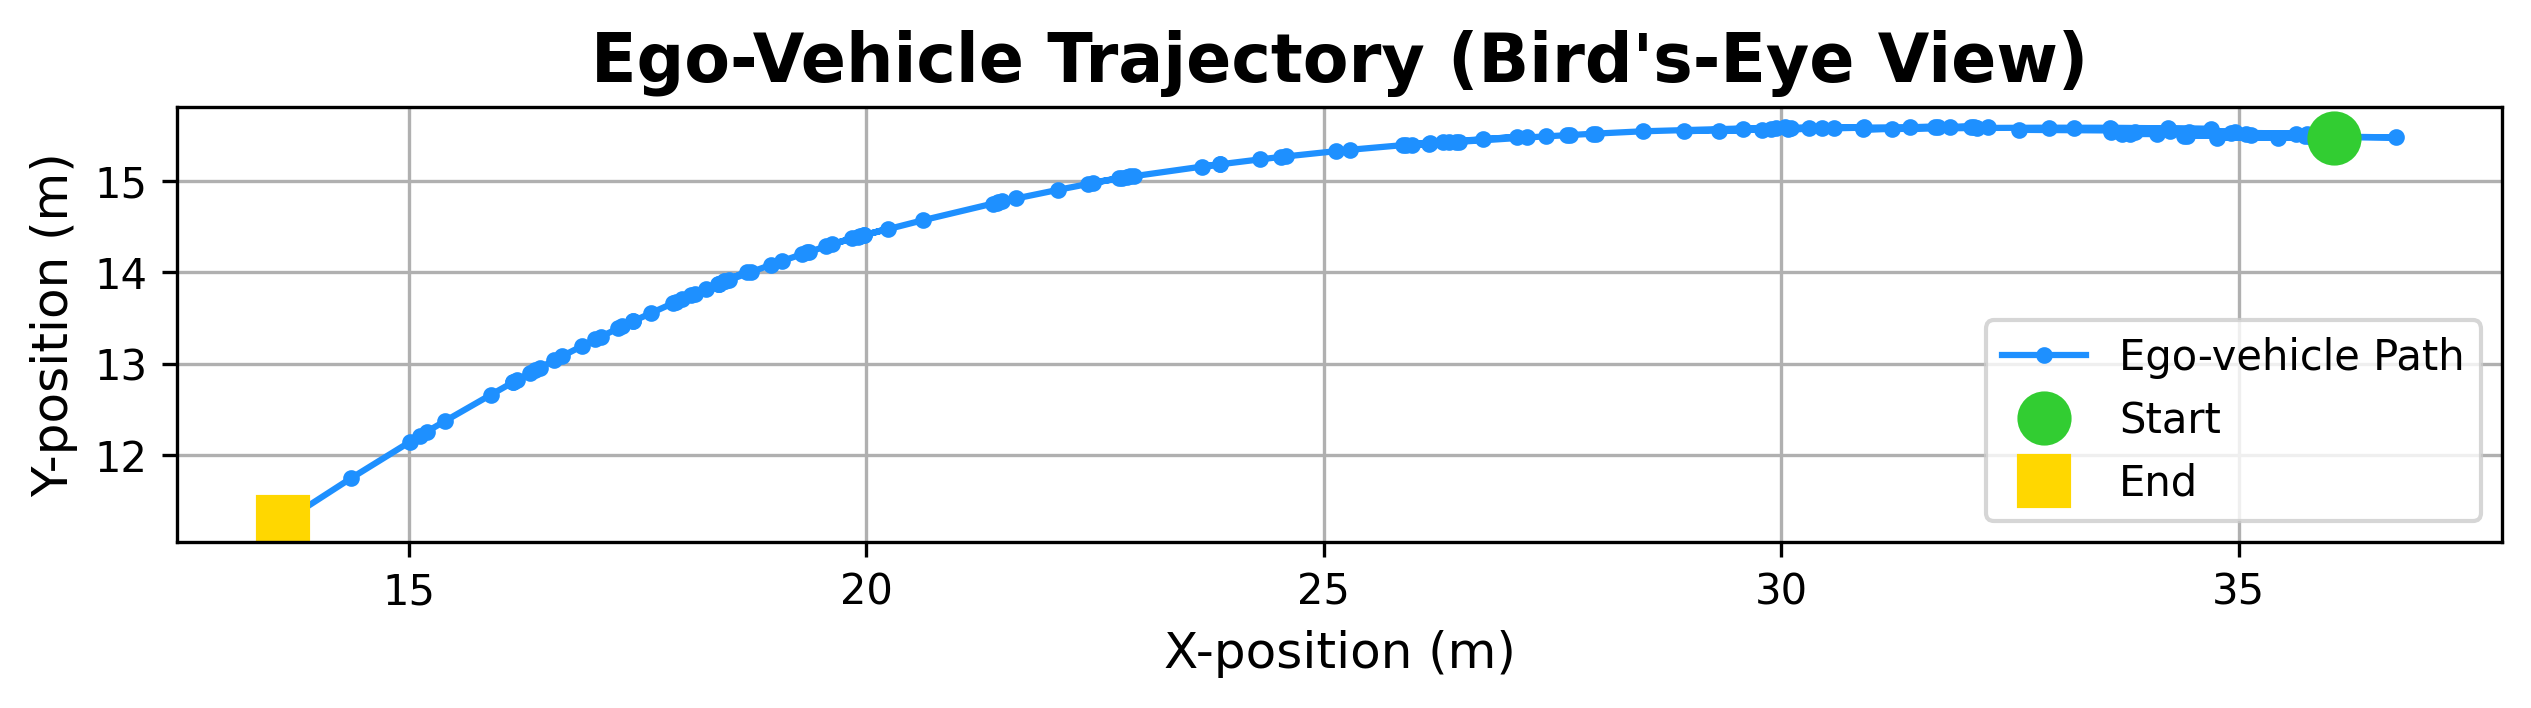
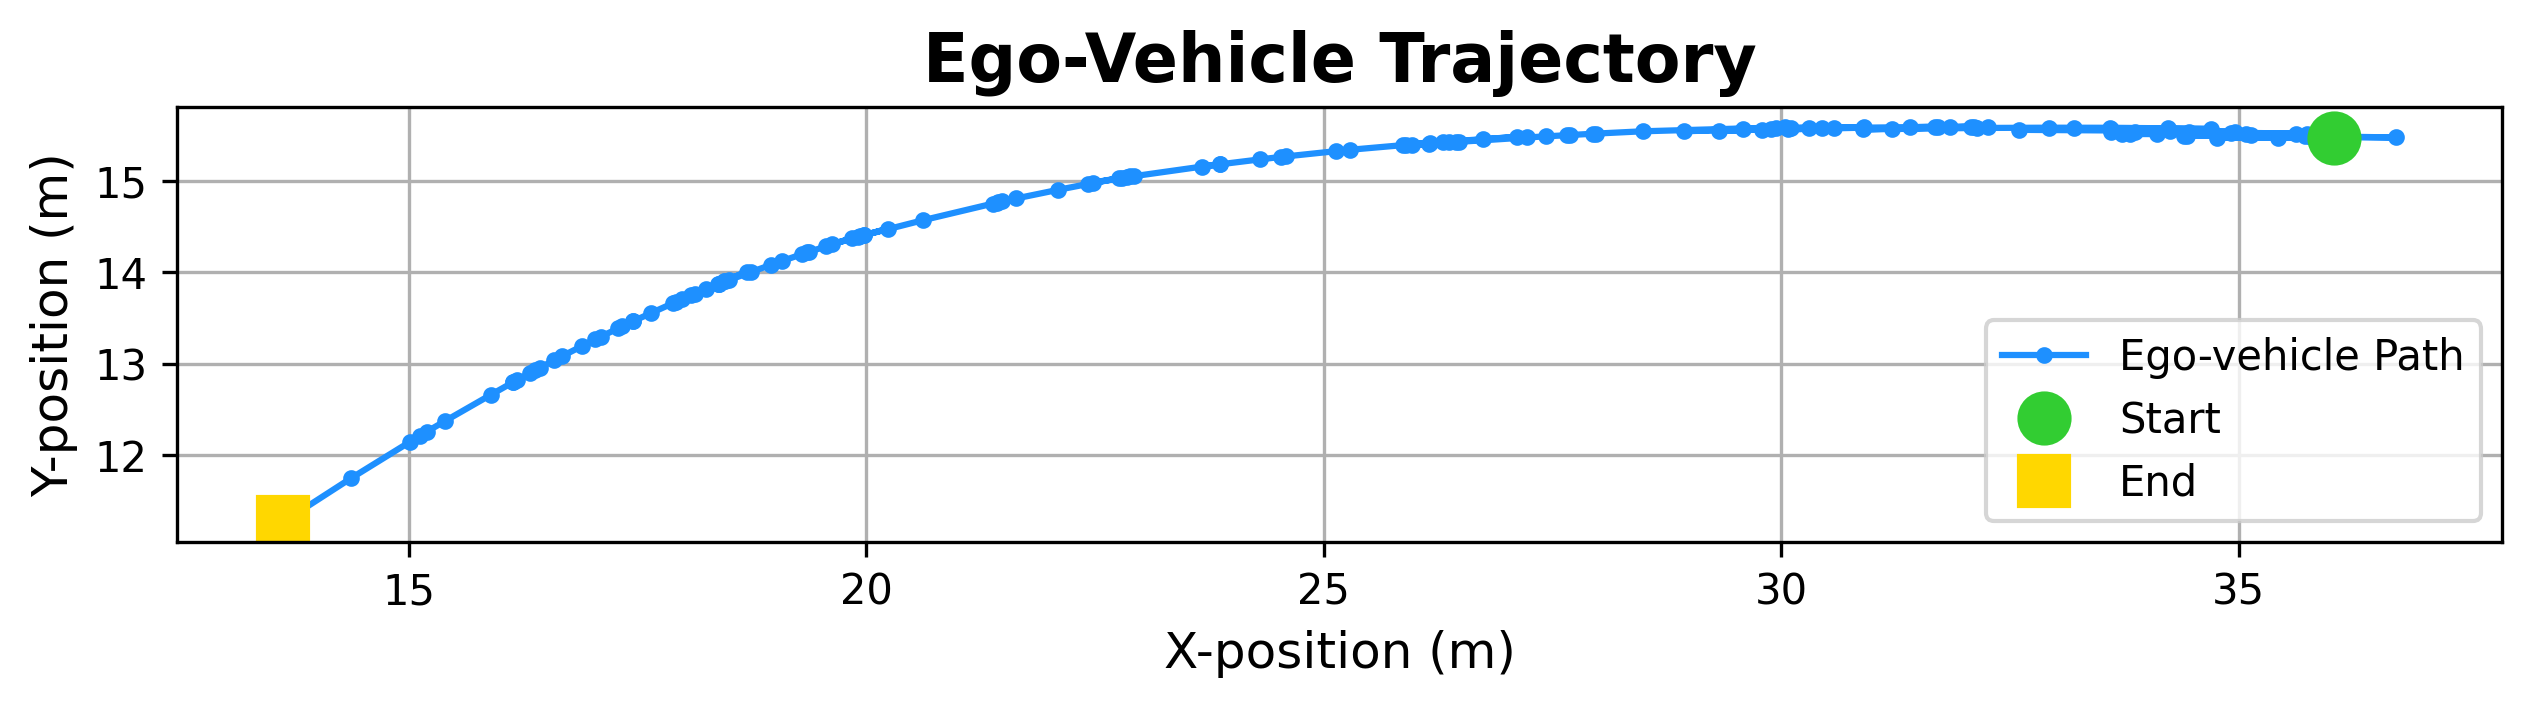
readme

Changed region(s): [[0.2185, 0.0311, 0.8427, 0.1554]]

diff --git a/main.py b/main.py
@@ -128,7 +128,7 @@ ax.plot(trajectory[0, 0], trajectory[0, 1], 'o', color='limegreen', markersize=1
 ax.plot(trajectory[-1, 0], trajectory[-1, 1], 's', color='gold', markersize=12, label='End')
 
 # Label + Title + Grid
-ax.set_title("Ego-Vehicle Trajectory (Bird's-Eye View)", fontsize=16, fontweight='bold')
+ax.set_title("Ego-Vehicle Trajectory", fontsize=16, fontweight='bold')
 ax.set_xlabel("X-position (m)", fontsize=12)
 ax.set_ylabel("Y-position (m)", fontsize=12)
 ax.grid(True)

diff --git a/README.md b/README.md
@@ -1,0 +1,27 @@
+# Computer Vision Challenge: Ego-Trajectory & Bird’s-Eye View Mapping
+
+## Method
+
+The vehicle's path was calculated by inferring its motion from the movement of the traffic light. The process can be divided into three main stages:
+
+1.  **3D Feature Extraction**: The 3D position of the traffic light relative to the camera was determined for each video frame. To ensure an accurate result, a 5x5 pixel patch around the traffic light's bounding box center was extracted from the depth data. Invalid points were filtered out, and the remaining 3D coordinates were averaged.
+
+2.  **Kinematic Velocity Calculation**: The vehicle's forward speed ($v_x$) and its turning rate ($\omega_z$) were calculated using a kinematic model based on the time derivatives of the light's measured 3D position ($X, Y$). The relevant equations are:
+    $$\omega_z = -\frac{\dot{Y}}{X} \quad , \quad v_x = -\dot{X} + \omega_z Y$$
+
+3.  **Trajectory Integration**: The final path was then constructed by integrating these velocities over time. Starting from an initial position and heading defined by the first measurement, the vehicle's state was updated step-by-step using Euler integration to build the complete trajectory.
+
+## Assumptions
+
+* The **traffic light is perfectly static** and serves as a fixed point in the world.
+* The vehicle moves on a **flat 2D plane**.
+* The vehicle cannot slip or move sideways.
+* The time interval between video frames is constant.
+
+## Results
+
+The script generates a plot of the vehicle's trajectory, saved as `trajectory.png`.
+
+!(trajectory.png)
+
+The picture shows the vehicle starting on the right side of the frame and moving towards the traffic light (located at the origin). The curve in the path shows that the model detected the vehicle's rotation (turning) as it drove forward. The smoothness of the trajectory shows the effectiveness of the patch-averaging technique, as it reduced noise. 
